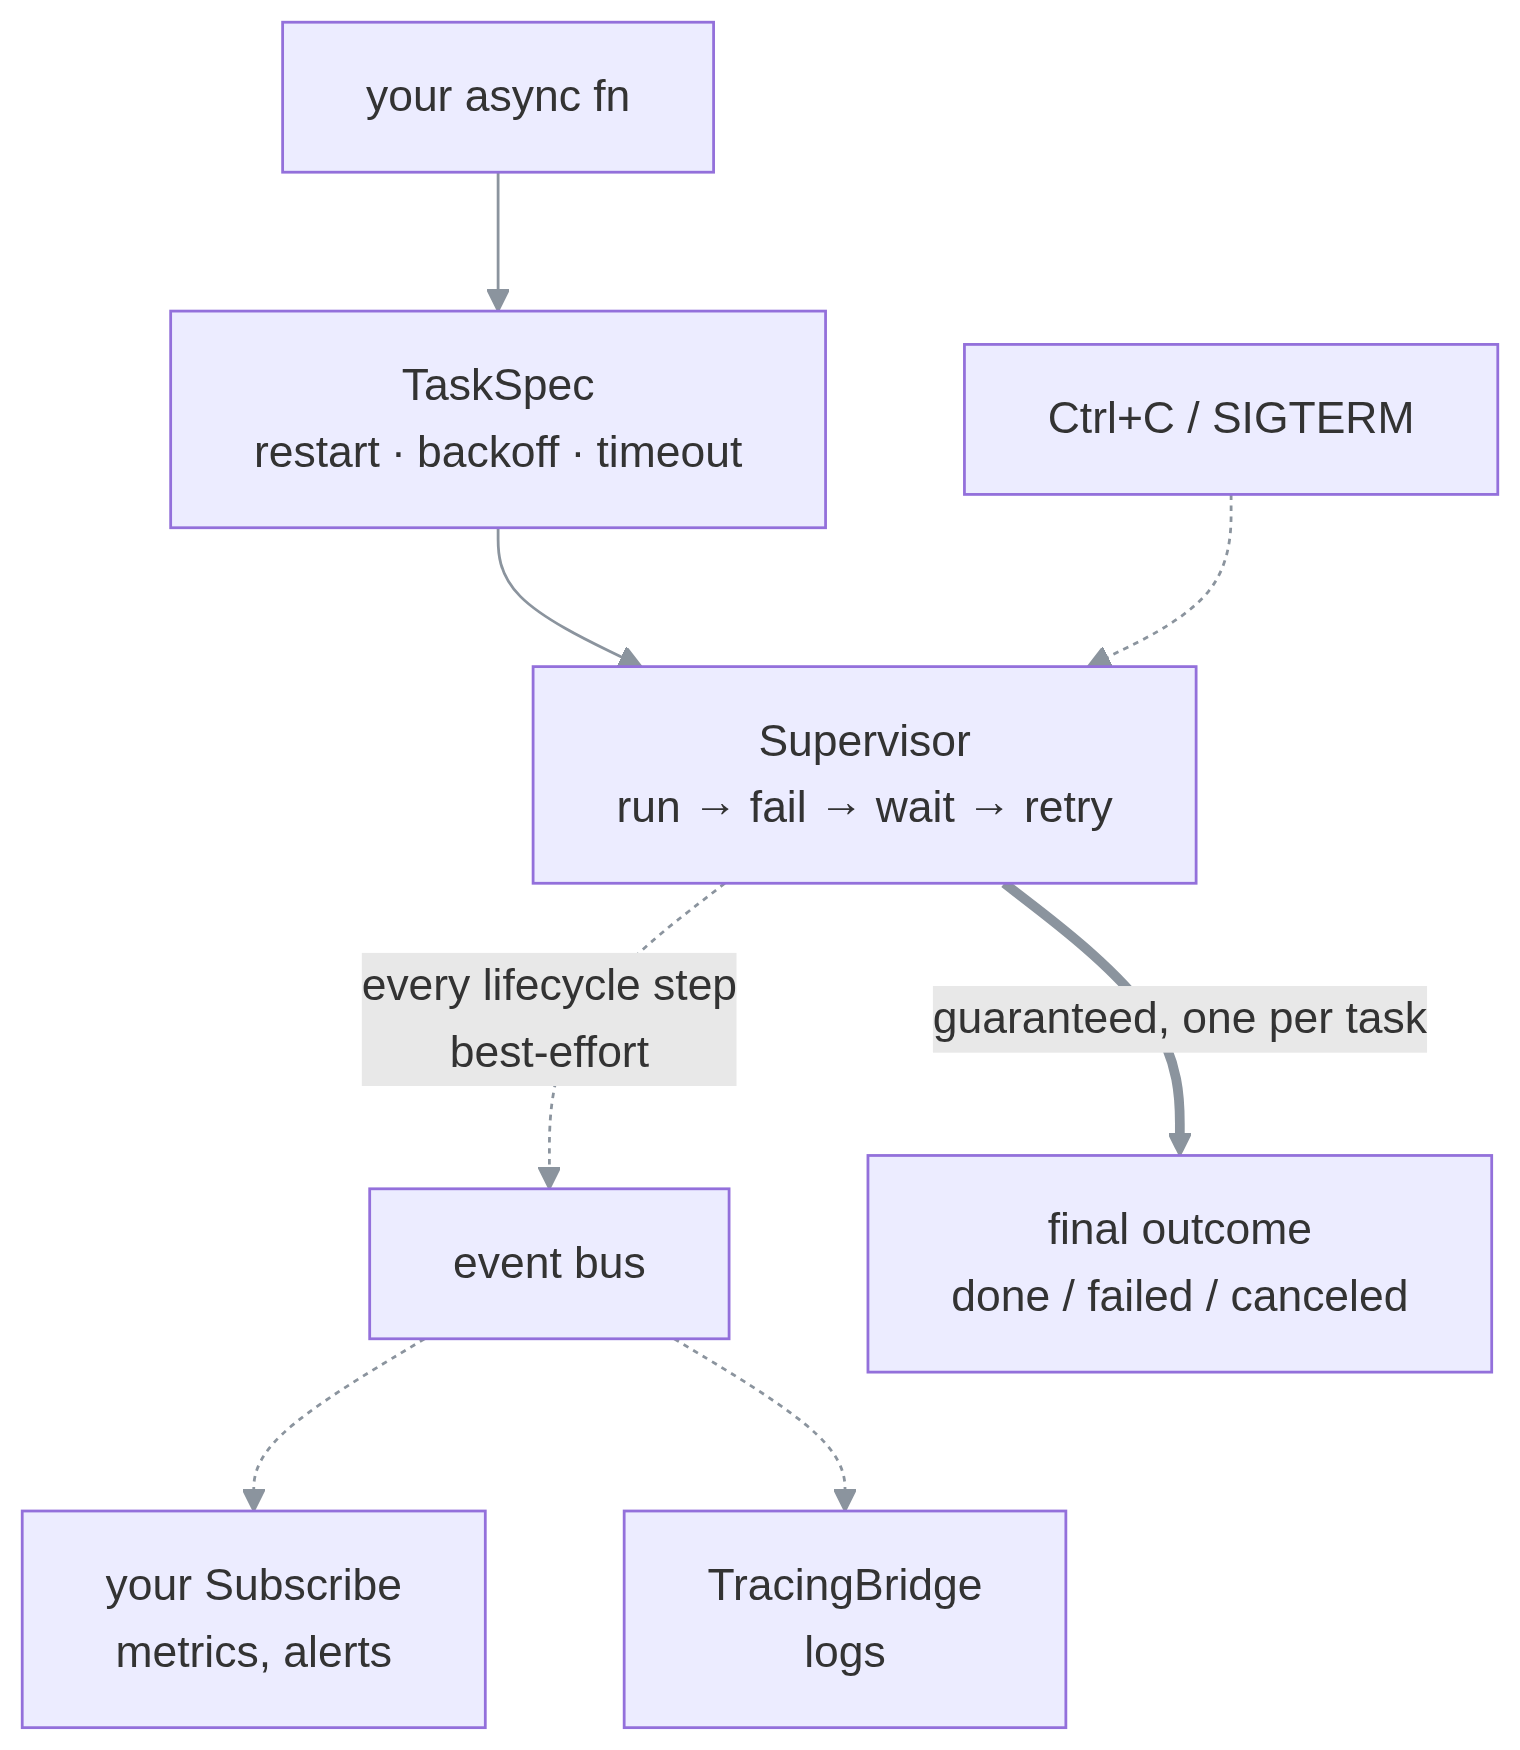
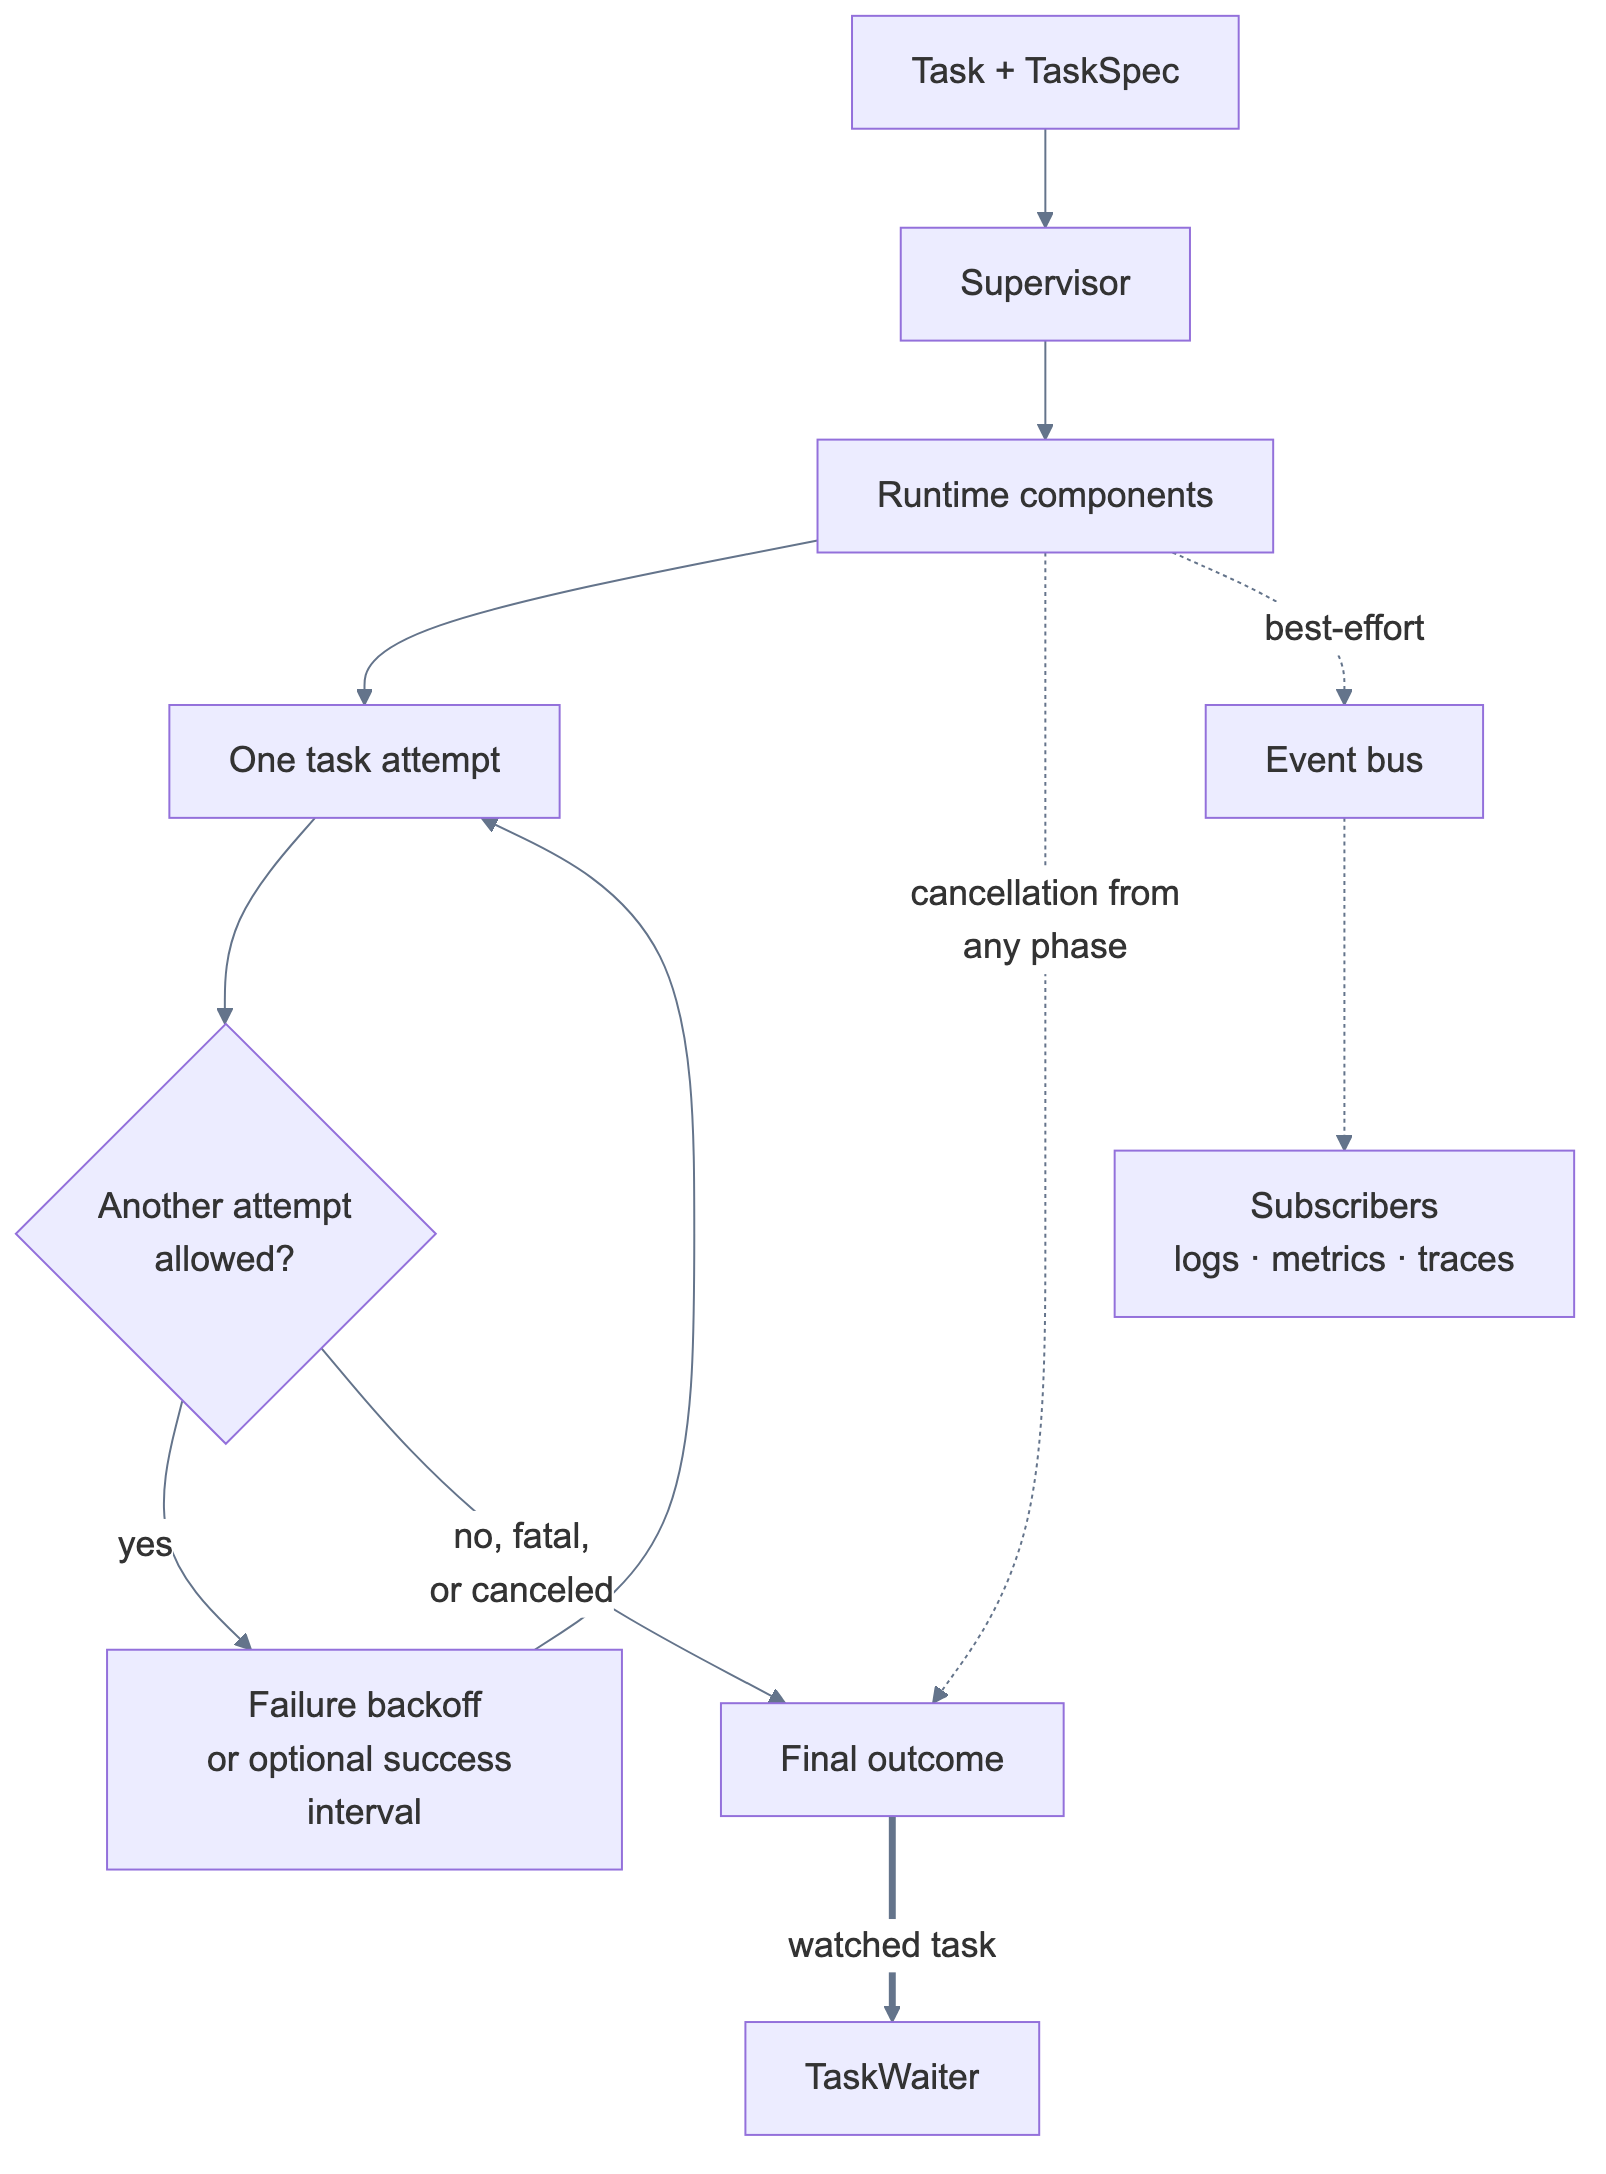
update taskvisor schemas

diff --git a/assets/schema/taskvisor-process.md b/assets/schema/taskvisor-process.md
@@ -1,13 +1,16 @@
 ```mermaid
-%%{init: {"theme": "default", "themeVariables": {"lineColor": "#8b949e", "edgeLabelBackground": "#e8e8e8"}}}%%
+%%{init: {"theme": "default", "flowchart": {"curve": "basis", "htmlLabels": true}, "themeVariables": {"primaryColor": "#eef2ff", "primaryTextColor": "#111827", "primaryBorderColor": "#7c3aed", "lineColor": "#64748b", "edgeLabelBackground": "#ffffff", "secondaryColor": "#f8fafc", "tertiaryColor": "#ffffff", "fontFamily": "Arial", "fontSize": "18px"}}}%%
 flowchart TD
-    fn["your async fn"] --> spec["TaskSpec<br/>restart · backoff · timeout"]
-    spec --> sup["Supervisor<br/>run → fail → wait → retry"]
-    sig["Ctrl+C / SIGTERM"] -.-> sup
+    input["Task + TaskSpec"] --> supervisor["Supervisor"]
+    supervisor --> runtime["Runtime components"]
+    runtime --> attempt["One task attempt"]
+    attempt --> decision{"Another attempt<br/>allowed?"}
+    decision -->|"yes"| delay["Failure backoff<br/>or optional success interval"]
+    delay --> attempt
+    decision -->|"no, fatal,<br/>or canceled"| outcome["Final outcome"]
 
-    sup -. "every lifecycle step<br/>best-effort" .-> bus["event bus"]
-    bus -.-> sub["your Subscribe<br/>metrics, alerts"]
-    bus -.-> tb["TracingBridge<br/>logs"]
-
-    sup == "guaranteed, one per task" ==> out["final outcome<br/>done / failed / canceled"]
+    runtime -.->|"cancellation from<br/>any phase"| outcome
+    runtime -.->|"best-effort"| bus["Event bus"]
+    bus -.-> subscribers["Subscribers<br/>logs · metrics · traces"]
+    outcome ==>|"watched task"| waiter["TaskWaiter"]
 ```

diff --git a/assets/schema/taskvisor-controller.md b/assets/schema/taskvisor-controller.md
@@ -1,0 +1,11 @@
+```mermaid
+%%{init: {"theme": "default", "flowchart": {"curve": "basis", "htmlLabels": true}, "themeVariables": {"primaryColor": "#eef2ff", "primaryTextColor": "#111827", "primaryBorderColor": "#7c3aed", "lineColor": "#64748b", "edgeLabelBackground": "#ffffff", "secondaryColor": "#f8fafc", "tertiaryColor": "#ffffff", "fontFamily": "Arial", "fontSize": "18px"}}}%%
+flowchart TD
+    submit["Submit work to a slot"] --> busy{"Slot busy?"}
+    busy -->|"no"| admit["Try registry admission"]
+    busy -->|"yes · Queue"| capacity{"Queue capacity<br/>available?"}
+    capacity -->|"yes"| queue["Add to FIFO queue"]
+    capacity -->|"no"| reject["Reject submission;<br/>task body does not run"]
+    busy -->|"yes · Replace"| replace["Request owner retirement;<br/>set or replace queue head"]
+    busy -->|"yes · DropIfRunning"| reject
+```